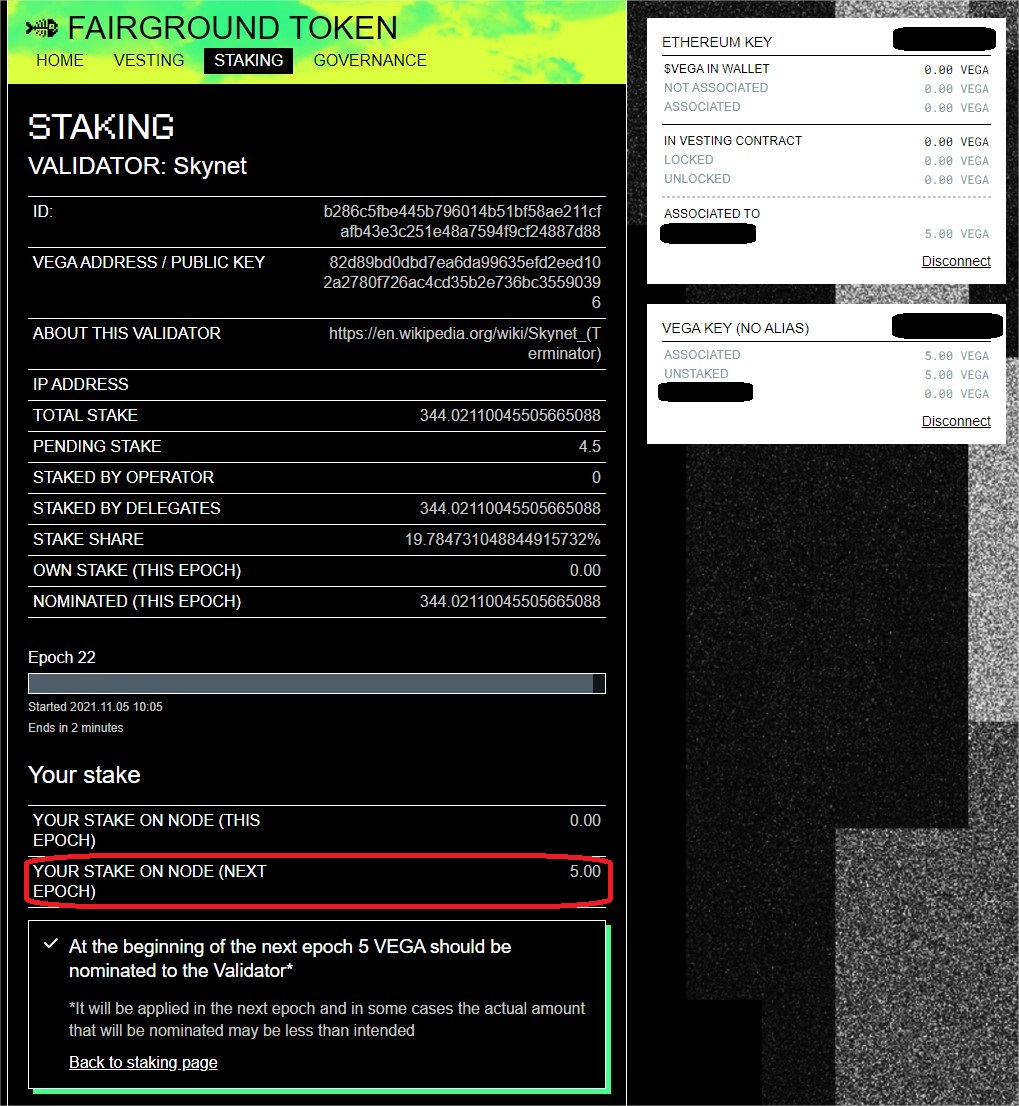
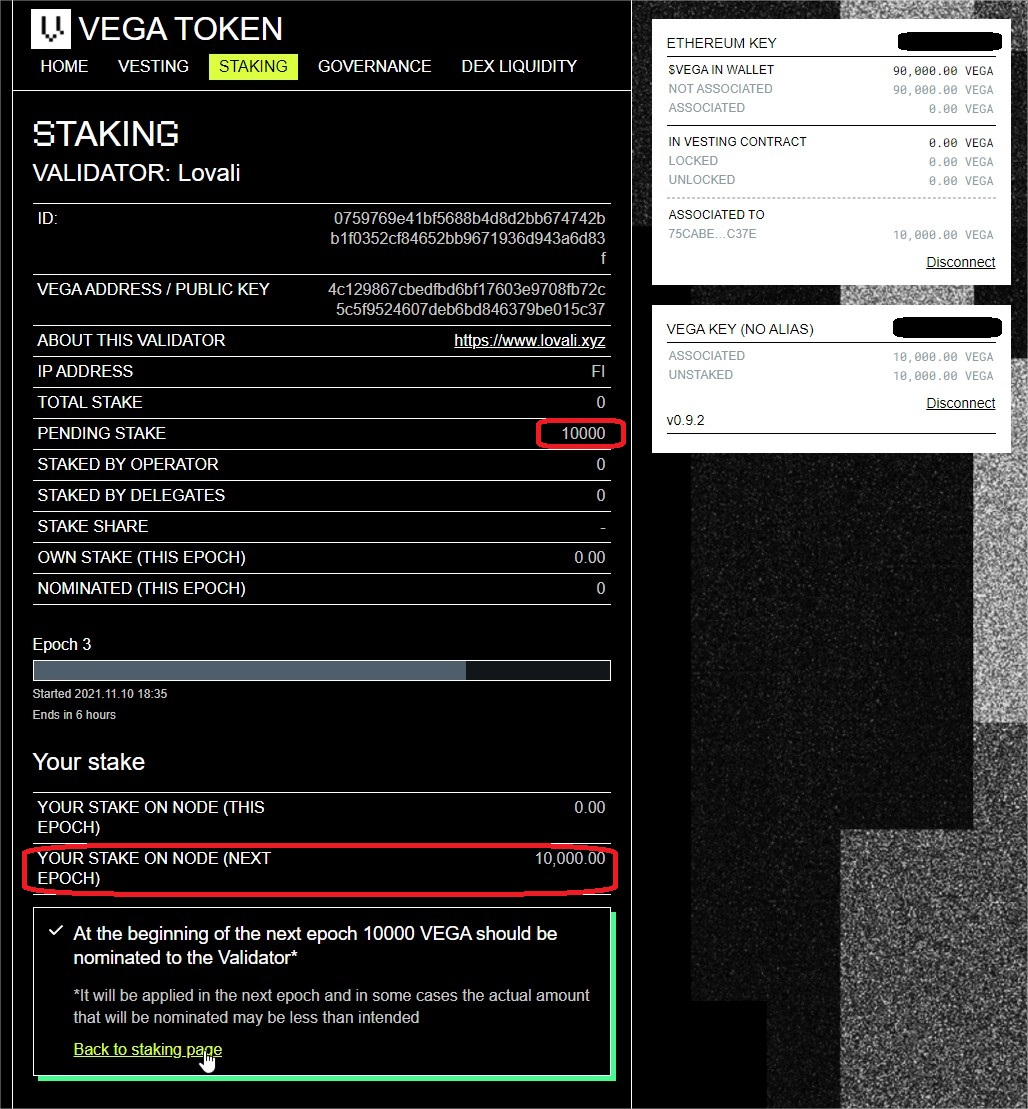
finalization doc staking

Changed region(s): [[0.0, 0.0, 1.0, 1.0]]

diff --git a/blog/vega-staking/index.html b/blog/vega-staking/index.html
@@ -102,9 +102,9 @@
 <h3 id="step-0">Step 0</h3>
 <ul>
 <li>If you do not already have a VEGA wallet, please follow <a href="https://docs.fairground.vega.xyz/docs/vega-wallet/create-wallet/">this documentation</a> in order to create one ;</li>
-<li>Go to <a href="https://token.fairground.wtf/">https://token.fairground.wtf/</a> ;</li>
+<li>Go to <a href="https://token.vega.xyz/">https://token.vega.xyz/</a> ;</li>
 </ul>
-<p><img src="/images/blog/stakingVEGA/1-VEGAStakingHomePage.jpg" alt="https://token.fairground.wtf/"></p>
+<p><img src="/images/blog/stakingVEGA/1-VEGAStakingHomePage.jpg" alt="https://token.vega.xyz/"></p>
 <ul>
 <li>Click on the <code>STAKING</code> tab on the top of the page.</li>
 </ul>
@@ -115,7 +115,7 @@
 </ul>
 <p><img src="/images/blog/stakingVEGA/3-VEGAStakingConnectMetamask.jpg" alt="Connect to a Metamask Ethereum Wallet part 1"></p>
 <ul>
-<li>The amount of VEGA tokens in your Ethereum wallet should be displayed on the right panel</li>
+<li>The amount of VEGA tokens in your Ethereum wallet should be displayed on the right panel ;</li>
 </ul>
 <p><img src="/images/blog/stakingVEGA/4-VEGAStakingConnectVEGAWallet1.jpg" alt="Connect to a Metamask Ethereum Wallet part 2"></p>
 <ul>
@@ -124,7 +124,12 @@
 <p><img src="/images/blog/stakingVEGA/5-VEGAStakingConnectVEGAWallet2.jpg" alt="Connect to a VEGA Wallet part 1"></p>
 <h3 id="step-2-">Step 2 :</h3>
 <ul>
-<li>Click on the <code>Associate VEGA tokens with wallet</code> button.</li>
+<li>
+<p>You should now see on the right panel that your Vega wallet is connected (but no token is associated/staked yet) ;</p>
+</li>
+<li>
+<p>Click on the <code>Associate VEGA tokens with wallet</code> button ;</p>
+</li>
 </ul>
 <p><img src="/images/blog/stakingVEGA/6-VEGAStakingAssociateVEGA1.jpg" alt="Associate VEGA tokens with wallet part 1"></p>
 <ul>
@@ -132,16 +137,16 @@
 <p>When asked &ldquo;Where would you like to stake from ?&rdquo;, select <code>Wallet</code> and enter the amount of VEGA tokens you would like to associate with your wallet (or you can click on the <code>Use maximum</code> link to populate this field with the amount coresponding to all the available tokens) ;</p>
 </li>
 <li>
-<p>Then click the <code>Approve VEGA tokens for staking on Vega</code> button, confirm the trasaction with Metamask and wait for the confirmations to complete on the blockchain ;</p>
+<p>Then click the <code>Approve VEGA tokens for staking on Vega</code> button, confirm the transaction with Metamask and wait for the confirmations to complete on the blockchain ;</p>
 </li>
 </ul>
 <p><img src="/images/blog/stakingVEGA/7-VEGAStakingAssociateVEGA2.jpg" alt="Associate VEGA tokens with wallet part 2"></p>
 <ul>
-<li>Click the <code>Associate VEGA tokens with key</code> button, confirm the transaction in Metamask and wait for the confirmations to complete on the blockchain. This time, it will take more time since more confirmations are required (you can optionally check the transaction on Etherscan with the link provided if you want).</li>
+<li>Click the <code>Associate VEGA tokens with key</code> button, confirm the transaction in Metamask and wait for the confirmations to complete on the blockchain. This time, it will take more time since more confirmations are required (you can optionally check the transaction on Etherscan with the link provided if you want) ;</li>
 </ul>
 <p><img src="/images/blog/stakingVEGA/8-VEGAStakingAssociateVEGA3.jpg" alt="Associate VEGA tokens with wallet part 3"></p>
 <ul>
-<li>The amount of tokens you just associated will appear on the right panel</li>
+<li>The amount of tokens you just associated will appear on the right panel (they are still not staked for the moment).</li>
 </ul>
 <p><img src="/images/blog/stakingVEGA/9-VEGAStakingAssociateVEGA4.jpg" alt="Associate VEGA tokens with wallet part 4"></p>
 <h3 id="step-3-">Step 3 :</h3>
@@ -154,16 +159,28 @@
 </ul>
 <p><img src="/images/blog/stakingVEGA/11-VEGAStakingSelectValidator2.jpg" alt="Select a validator part 2"></p>
 <ul>
-<li>Wait for the transaction to finish ;</li>
+<li>Wait for the transaction to finish and check that the stake on node (next epoch) value is now equal to the amount you want to stake ;</li>
 </ul>
 <p><img src="/images/blog/stakingVEGA/12-VEGAStakingSelectValidator3.jpg" alt="Select a validator part 3"></p>
-<p><img src="/images/blog/stakingVEGA/13-VEGAStakingSelectValidator4.jpg" alt="Select a validator part 4"></p>
-<h3 id="final-check-">Final check :</h3>
 <ul>
-<li>Click on the <code>Staking</code> tab on the top of the page, and double check that your stake for Lovali validator is equal to the amount you want. If not you are still able to add more VEGA tokens repeating step 3.</li>
+<li>Wait for the end of the current epoch (you can check the progress bar in the previous screenshot). You can now leave the website and come back later if the end of the current epoch is too far.</li>
+</ul>
+<h3 id="final-check-next-epoch-">Final check (next epoch) :</h3>
+<ul>
+<li>
+<p>Come back to <a href="https://token.vega.xyz/">https://token.vega.xyz/</a> when the next epoch is started ;</p>
+</li>
+<li>
+<p>Repeat Step 1 if your wallets have been disconnected since the previous step ;</p>
+</li>
+<li>
+<p>Click on the <code>STAKING</code> tab on the top of the page, and double check that your stake for Lovali validator is equal to the amount you want. If not you are still able to add more VEGA tokens repeating step 3. This step can be important if you want to stake a large amount of tokens since there is an anti-whale mechanism which can kick in in some situations on Vega protocol (in the example, we tried to stake 10 000 tokens but only 3 700 have been actually staked). The rule defined by the Vega protocol is the following : &ldquo;At the end of the epoch, given all requested nominations and un-nominations, and current active nominations, the max stake per validator is defined as the <code>(current total stake across all validators minus the total requested un-nominated stake + total requested nominated stake) divided by 3</code>. Each validator will not accept more stake beyond the maximum : if it has already more than the maximum it will reject all requests for nomination but will leave any existing stake untouched&rdquo;.</p>
+</li>
 </ul>
 <p><img src="/images/blog/stakingVEGA/14-VEGAStakingSummaryAllValidators.jpg" alt="Final check"></p>
-<p>That&rsquo;s it, now you just have to wait to enjoy your staking rewards !</p>
+<ul>
+<li>That&rsquo;s it, you can now start to enjoy your staking rewards !</li>
+</ul>
 
         </div>
         
